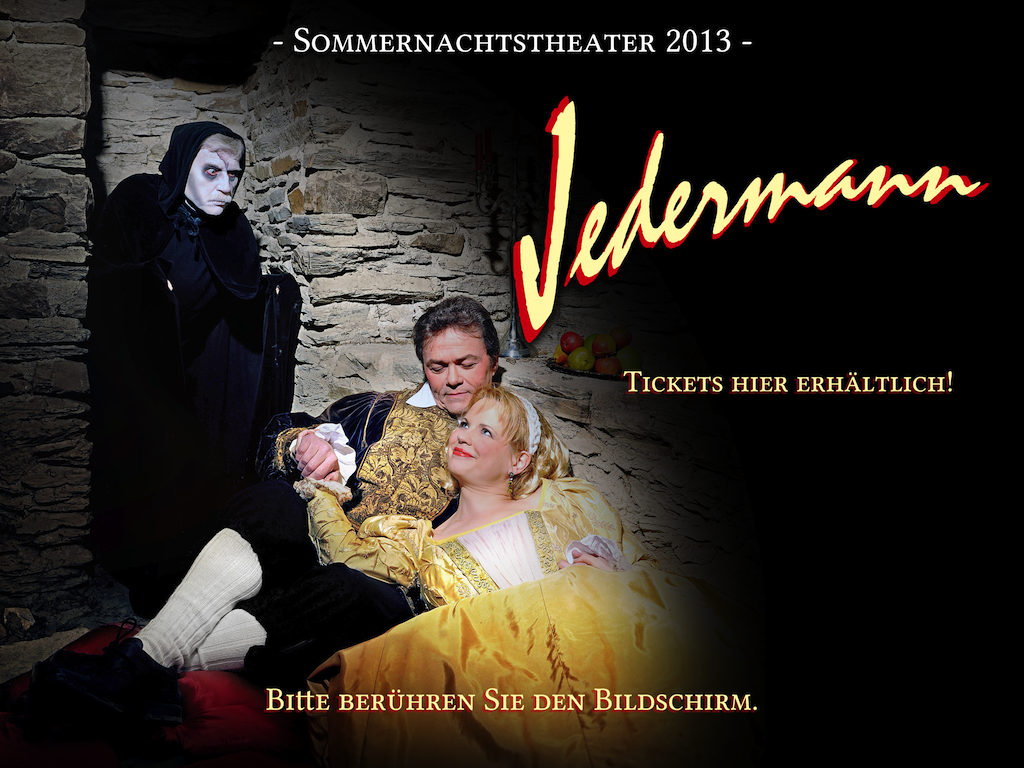
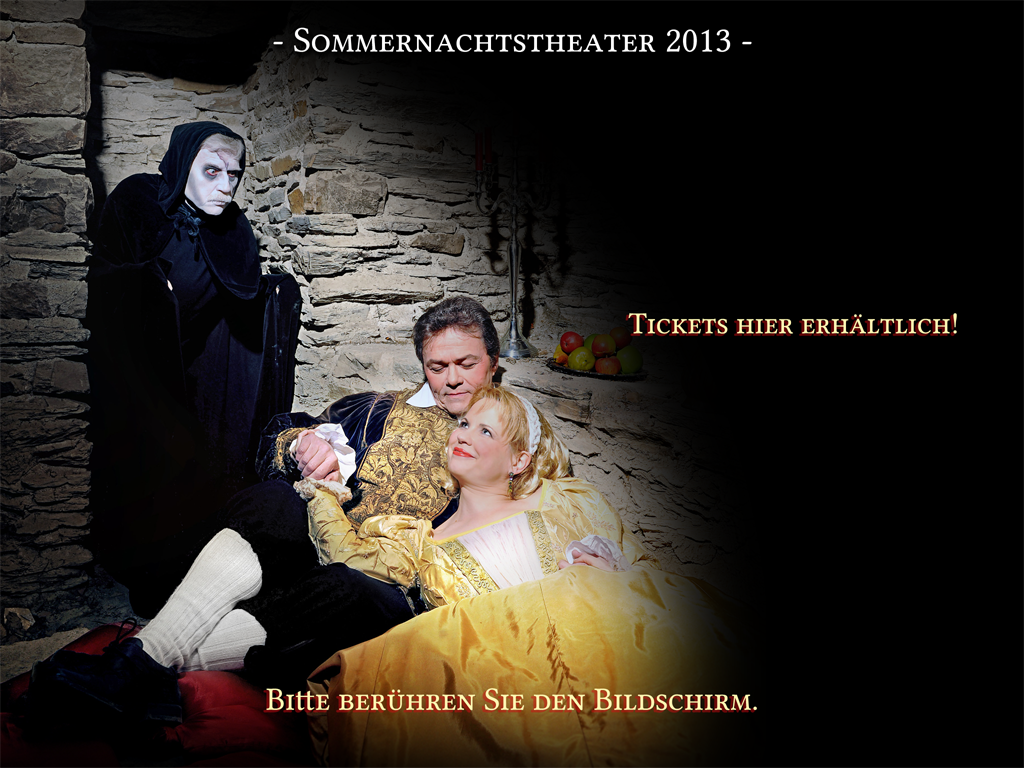
added fancy animations to the idle controller

diff --git a/FasT-retail/FasTIdleViewController.m b/FasT-retail/FasTIdleViewController.m
@@ -7,8 +7,14 @@
 //
 
 #import "FasTIdleViewController.h"
+#import "QuartzCore/QuartzCore.h"
 
 @interface FasTIdleViewController ()
+
+- (void)fadeInTitle;
+- (void)fadeOutTitle;
+- (void)addAnimation:(CAAnimation *)anim toLayer:(CALayer *)layer;
+- (CABasicAnimation *)opacityAnimationForTiteWithFadeInToggle:(BOOL)toggle duration:(CFTimeInterval)duration;
 
 @end
 
@@ -18,8 +24,27 @@
 {
     self = [super initWithNibName:nibNameOrNil bundle:nibBundleOrNil];
     if (self) {
-        UIImageView *background = [[[UIImageView alloc] initWithImage:[UIImage imageNamed:@"idle_background.png"]] autorelease];
-        [[self view] addSubview:background];
+        UIImage *backgroundImage = [UIImage imageNamed:@"idle_background.png"];
+        UIImageView *backgroundView = [[[UIImageView alloc] initWithImage:backgroundImage] autorelease];
+        [[self view] addSubview:backgroundView];
+        
+        UIImage *titleImage = [UIImage imageNamed:@"idle_title.png"];
+        UIImageView *titleView = [[[UIImageView alloc] initWithImage:titleImage] autorelease];
+        CGRect titleRect;
+        titleRect.size = [titleImage size];
+        titleRect.origin = CGPointMake(500, 80);
+        [titleView setFrame:titleRect];
+        [[self view] addSubview:titleView];
+        
+        UIImage *blurImage = [UIImage imageNamed:@"idle_title_mask.png"];
+        titleMaskLayer = [[CALayer layer] retain];
+        [titleMaskLayer setFrame:CGRectMake(0, 0, blurImage.size.width, blurImage.size.height)];
+        [titleMaskLayer setPosition:CGPointMake(250, 120)];
+        [titleMaskLayer setContents:(id)blurImage.CGImage];
+        
+        titleLayer = [[titleView layer] retain];
+        [titleLayer setMask:titleMaskLayer];
+        [titleLayer setOpacity:0];
         
         [self setModalTransitionStyle:UIModalTransitionStyleFlipHorizontal];
     }
@@ -35,7 +60,98 @@
 {
     [super viewWillAppear:animated];
     
-    [[UIScreen mainScreen] setBrightness:0.3];
+    [[UIScreen mainScreen] setBrightness:0.5];
+}
+
+- (void)viewDidAppear:(BOOL)animated
+{
+    [super viewDidAppear:animated];
+    
+    [self performSelector:@selector(fadeInTitle) withObject:nil afterDelay:.5];
+}
+
+- (void)viewWillDisappear:(BOOL)animated
+{
+    [super viewWillDisappear:animated];
+    
+    [NSObject cancelPreviousPerformRequestsWithTarget:self];
+}
+
+- (void)viewDidDisappear:(BOOL)animated
+{
+    [super viewDidDisappear:animated];
+    
+    [titleMaskLayer removeAllAnimations];
+    [titleLayer removeAllAnimations];
+    [titleLayer setOpacity:0];
+}
+
+- (void)dealloc
+{
+    [titleMaskLayer release];
+    [titleLayer release];
+    [super dealloc];
+}
+
+- (void)addAnimation:(CAAnimation *)anim toLayer:(CALayer *)layer
+{
+    [anim setDelegate:self];
+    [anim setTimingFunction:[CAMediaTimingFunction functionWithName:kCAMediaTimingFunctionEaseOut]];
+    [layer addAnimation:anim forKey:nil];
+}
+
+- (CABasicAnimation *)opacityAnimationForTiteWithFadeInToggle:(BOOL)toggle duration:(CFTimeInterval)duration
+{
+    CABasicAnimation *anim = [CABasicAnimation animationWithKeyPath:@"opacity"];
+    [anim setFromValue:@(!toggle)];
+    [anim setToValue:@(toggle)];
+    [anim setDuration:duration];
+    return anim;
+}
+
+- (void)fadeInTitle
+{
+    animationsToComplete = 2;
+    titleVisible = YES;
+    
+    [titleLayer setOpacity:1];
+    
+    CABasicAnimation *anim = [CABasicAnimation animationWithKeyPath:@"position"];
+    [anim setFromValue:[NSValue valueWithCGPoint:CGPointMake(-250, 120)]];
+    [anim setToValue:[NSValue valueWithCGPoint:CGPointMake(250, 120)]];
+    [anim setDuration:4];
+    [self addAnimation:anim toLayer:titleMaskLayer];
+    
+    CABasicAnimation *anim2 = [CABasicAnimation animationWithKeyPath:@"transform.scale"];
+    [anim2 setFromValue:@(.5)];
+    [anim2 setToValue:@(1)];
+    
+    CABasicAnimation *anim3 = [self opacityAnimationForTiteWithFadeInToggle:YES duration:4];
+    
+    CAAnimationGroup *animGroup = [CAAnimationGroup animation];
+    [animGroup setAnimations:@[anim2, anim3]];
+    [animGroup setDuration:4];
+    [self addAnimation:animGroup toLayer:titleLayer];
+}
+
+- (void)fadeOutTitle
+{
+    animationsToComplete = 1;
+    titleVisible = NO;
+    
+    [self addAnimation:[self opacityAnimationForTiteWithFadeInToggle:NO duration:2] toLayer:titleLayer];
+}
+
+#pragma mark animation delegate methods
+
+- (void)animationDidStop:(CAAnimation *)anim finished:(BOOL)flag
+{
+    if (!flag || --animationsToComplete > 0) return;
+    if (titleVisible) {
+        [self performSelector:@selector(fadeOutTitle) withObject:nil afterDelay:30];
+    } else {
+        [self fadeInTitle];
+    }
 }
 
 @end

diff --git a/FasT-retail/FasTIdleViewController.h b/FasT-retail/FasTIdleViewController.h
@@ -9,5 +9,10 @@
 #import <UIKit/UIKit.h>
 
 @interface FasTIdleViewController : UIViewController
+{
+    CALayer *titleMaskLayer, *titleLayer;
+    BOOL titleVisible;
+    NSInteger animationsToComplete;
+}
 
 @end
